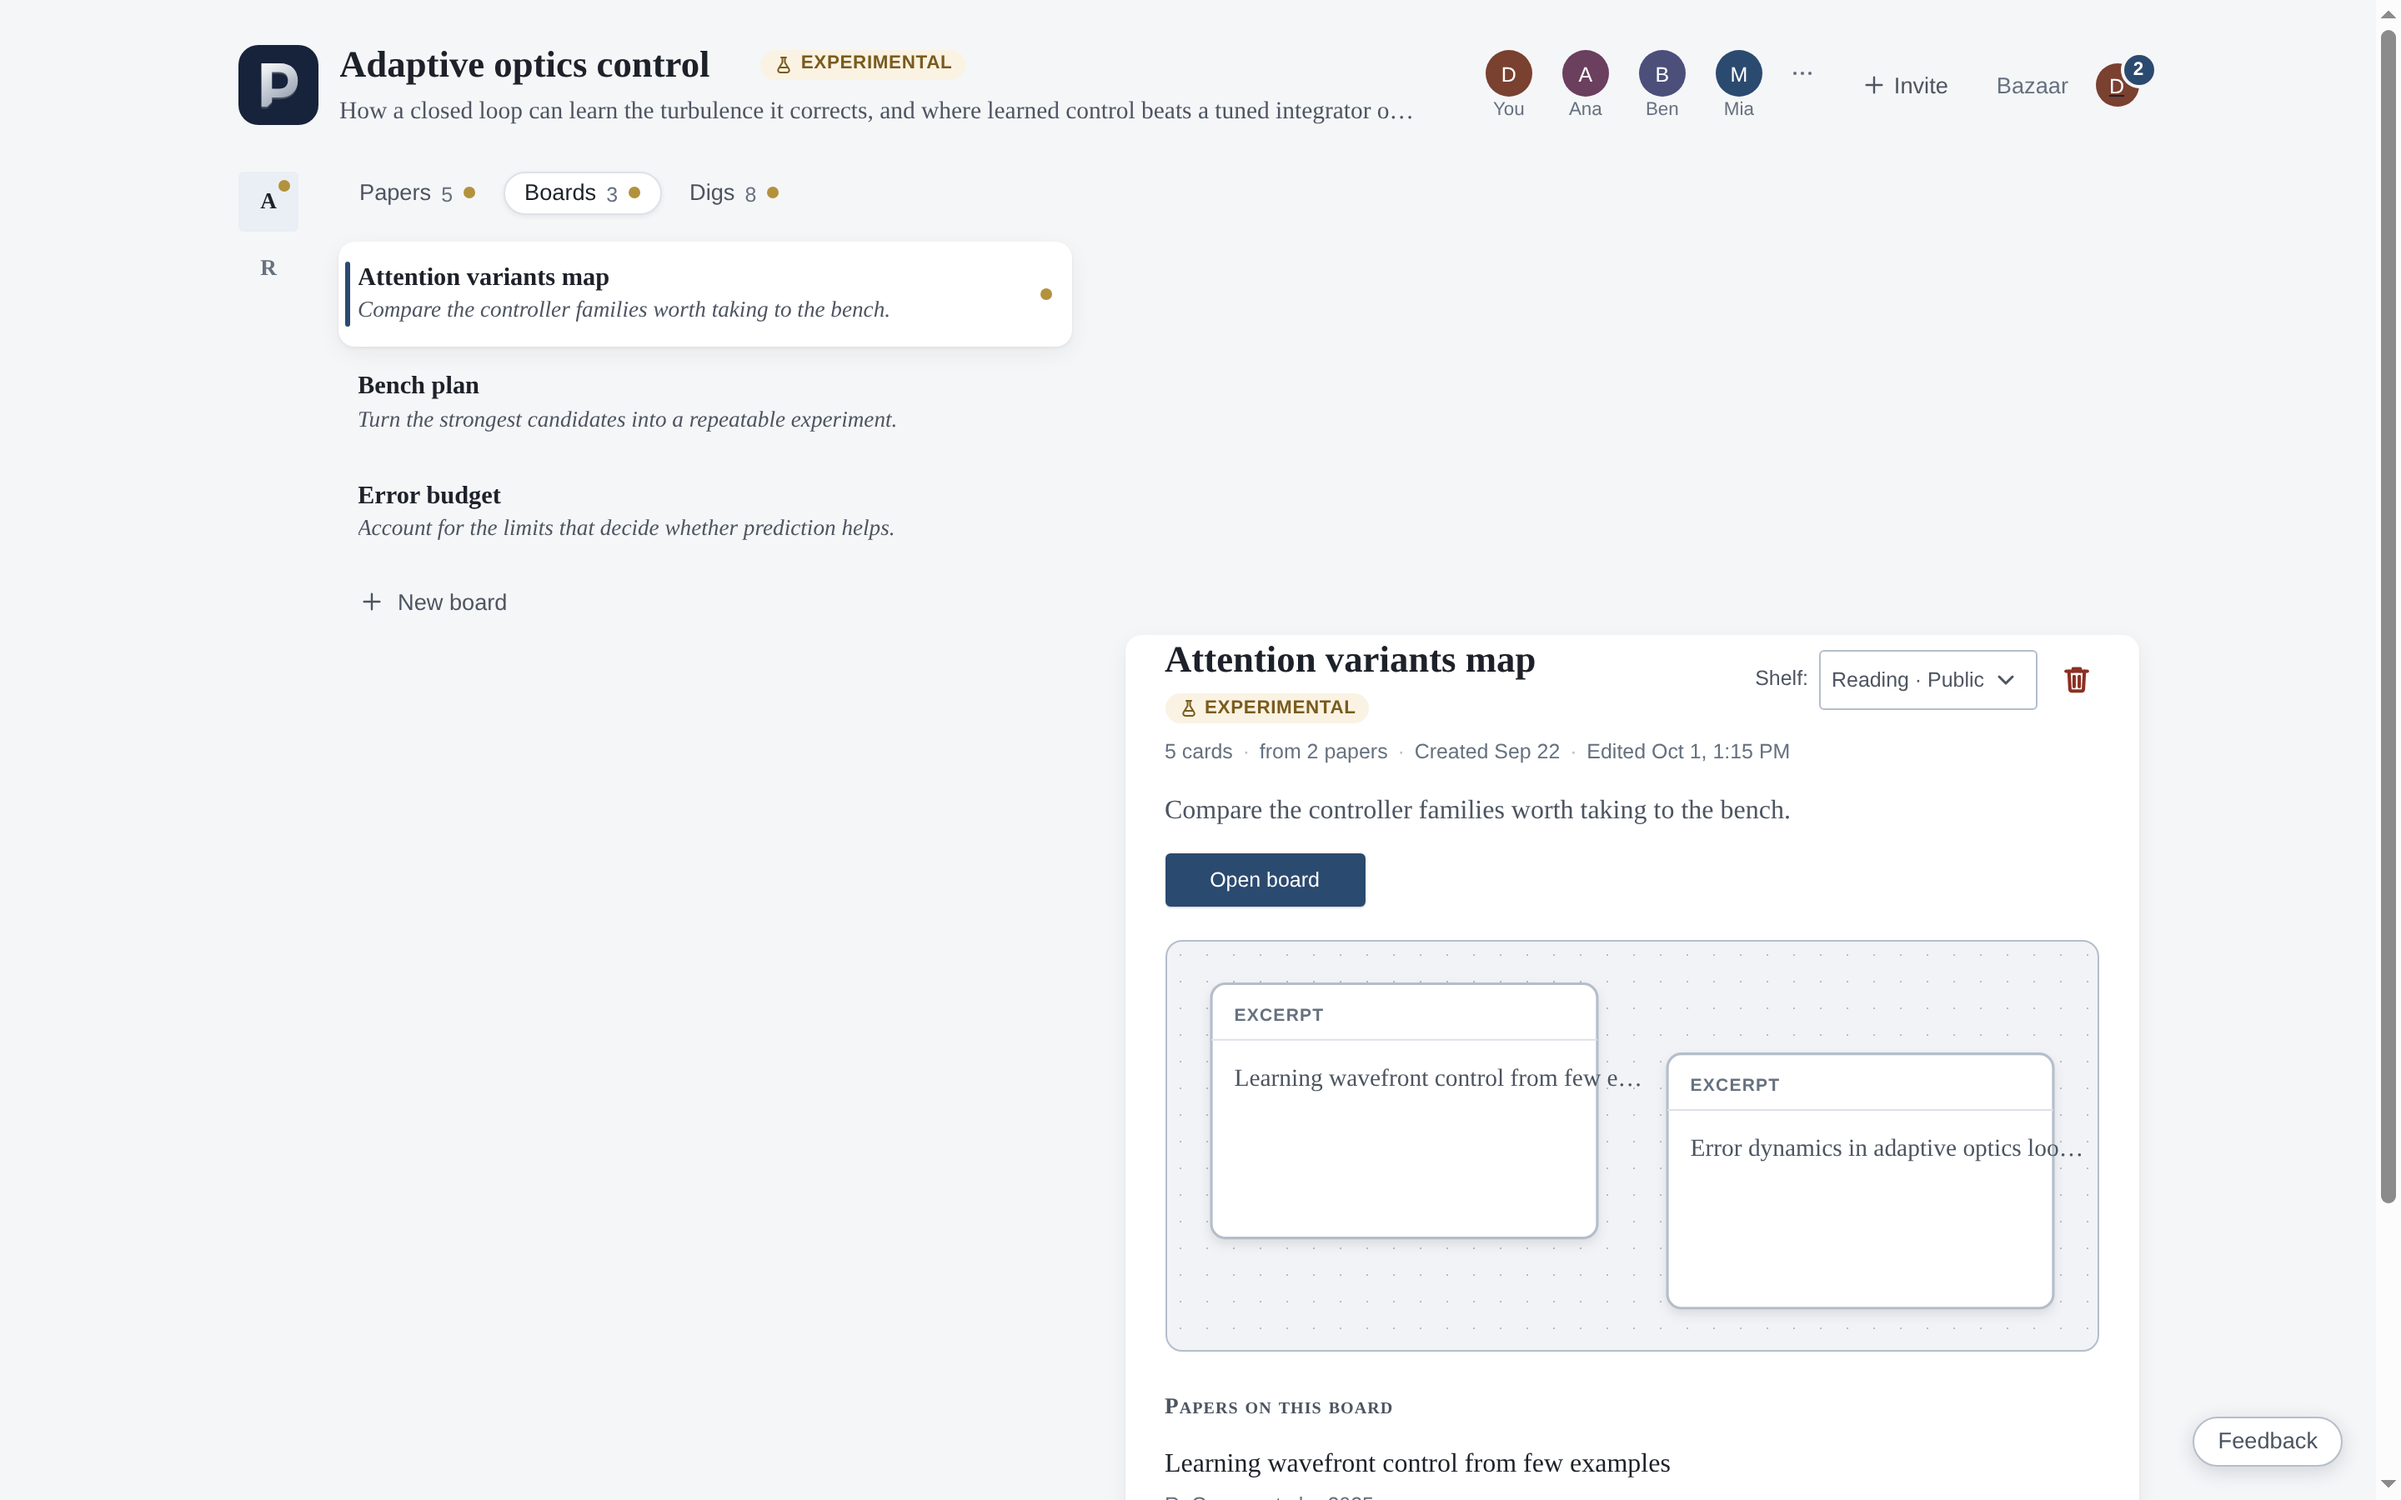
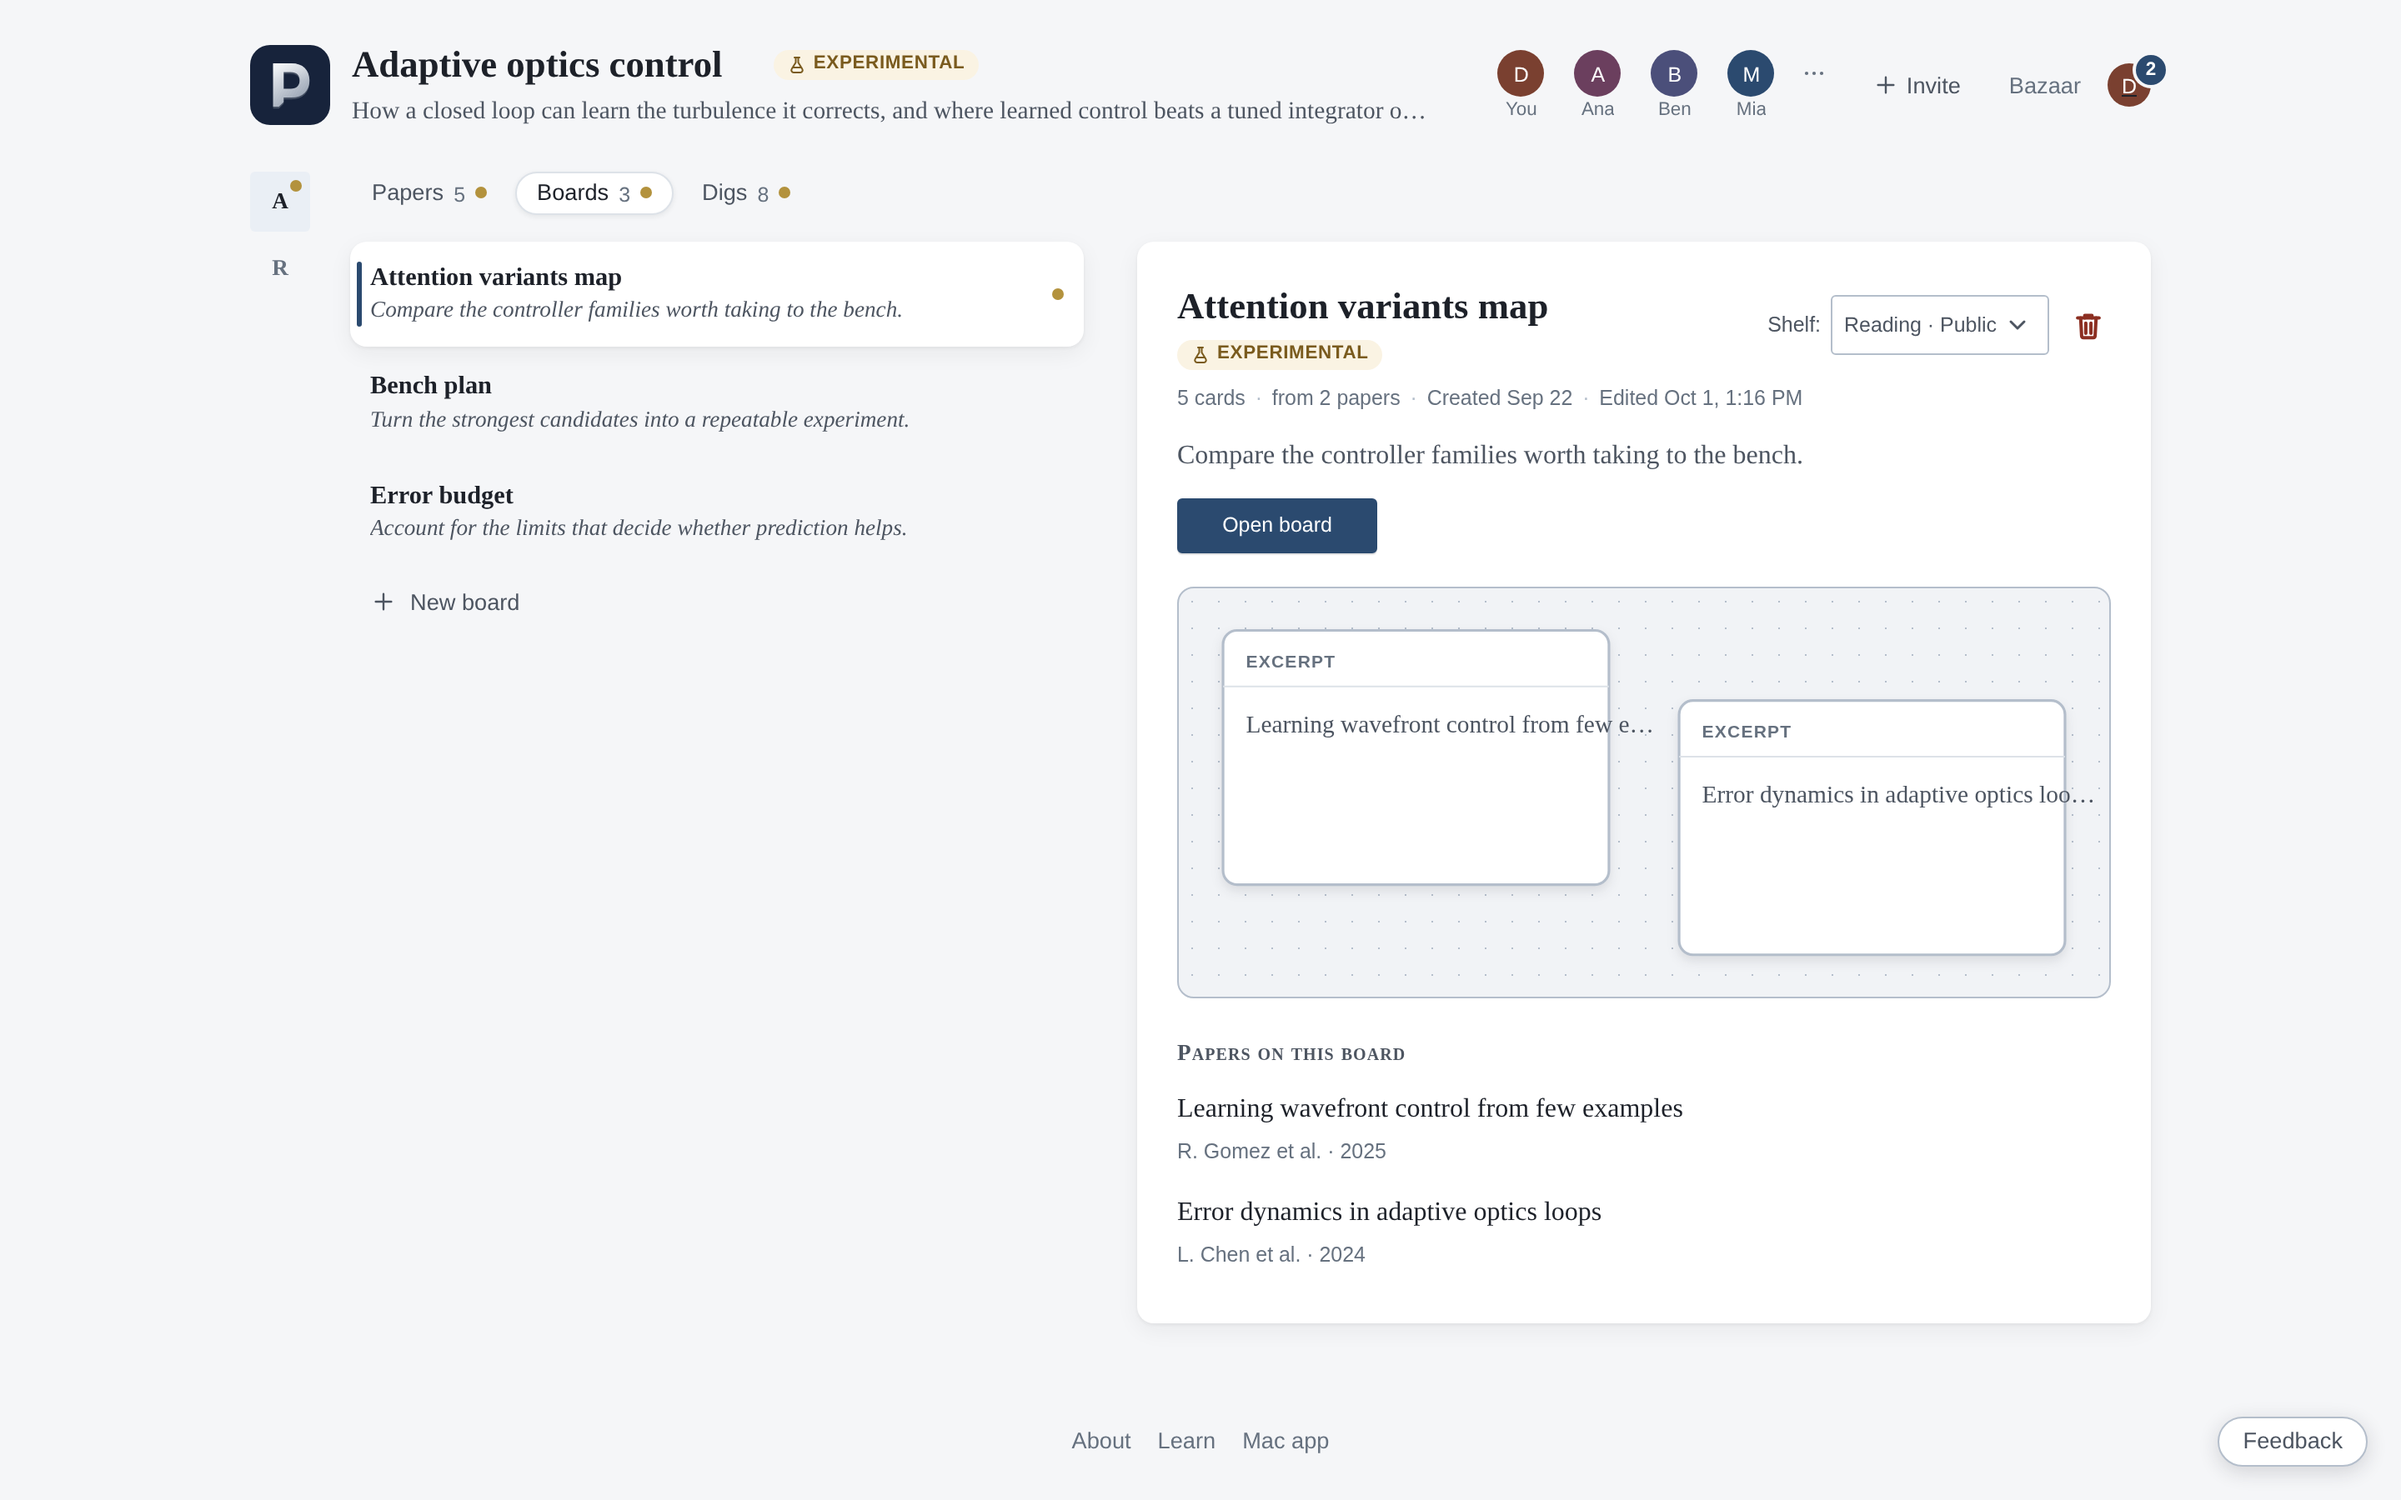
Align project board jacket with rail

diff --git a/shared/applicationStyles.js b/shared/applicationStyles.js
@@ -5359,7 +5359,9 @@ ${talkStyles}
    row, with the pane's own sheet and no panel of its own. */
 .project-boards-panel { padding: 0; }
 .project-board-open { margin: -2px 0 var(--space-3); border-radius: 0 0 var(--radius-lg) var(--radius-lg); background: var(--card); }
-.project-boards-view .board-jacket > .panel { margin: 0; padding-top: 0; border: 0; background: transparent; box-shadow: none; }
+.project-boards-view.is-wide { grid-template-areas: 'list panel'; }
+.project-boards-view.is-wide > .project-boards { grid-area: list; }
+.project-boards-view .board-jacket > .panel { margin: 0; border: 0; background: transparent; box-shadow: none; }
 .project-boards-view .board-jacket-papers li, .project-boards-view .board-jacket-papers li:last-child { border: 0; }
 .project-paper-open { margin: -2px 0 var(--space-3); padding: var(--space-4) var(--space-3) var(--space-5); border-radius: 0 0 var(--radius-lg) var(--radius-lg); background: var(--card); }
 

diff --git a/frontend/src/applicationStyles.test.js b/frontend/src/applicationStyles.test.js
@@ -19,8 +19,9 @@ test('textual chip families share one vertical-centering rule', () => {
   assert.match(rule, /align-items: center !important/);
 });
 
-test("a project's board jacket starts flush with its pane", () => {
-  assert.match(applicationStyles, /\.project-boards-view \.board-jacket > \.panel \{[^}]*padding-top: 0;/);
+test("a project's board jacket starts beside its rail instead of below an empty filters row", () => {
+  assert.match(applicationStyles, /\.project-boards-view\.is-wide \{ grid-template-areas: 'list panel'; \}/);
+  assert.match(applicationStyles, /\.project-boards-view\.is-wide > \.project-boards \{ grid-area: list; \}/);
 });
 
 // A rule left open swallows every rule after it without a parse error.
